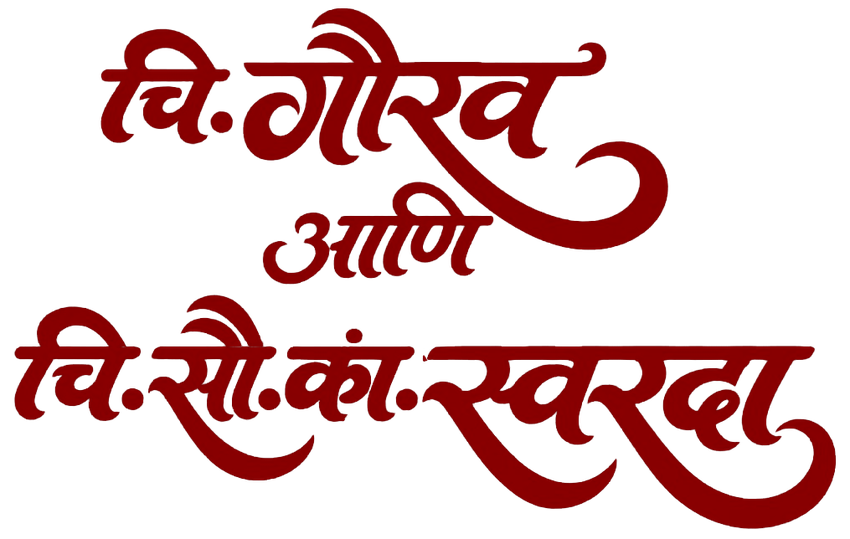
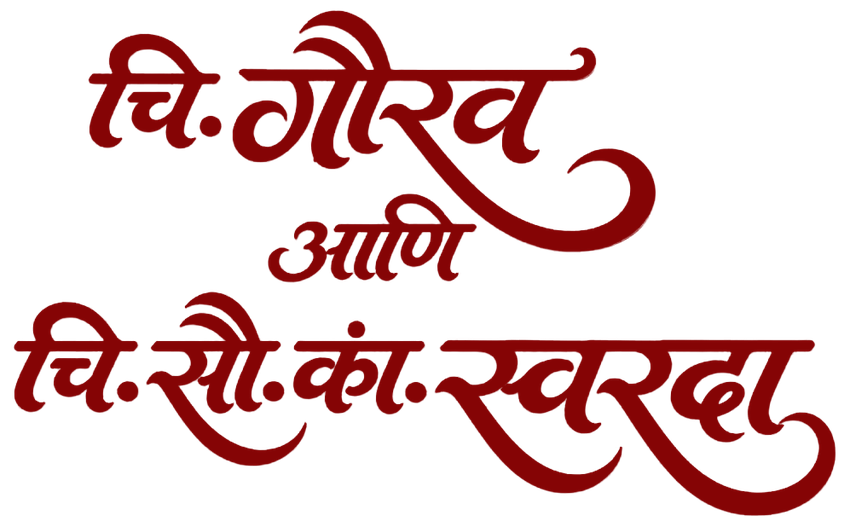
small update

diff --git a/index.html b/index.html
@@ -15,15 +15,15 @@
   <link rel="preconnect" href="https://fonts.googleapis.com">
   <link rel="preconnect" href="https://fonts.gstatic.com" crossorigin>
   <link rel="preconnect" href="https://ik.imagekit.io">
-  <link rel="preload" as="image" href="assets/couple-calligraphy.webp?v=12" type="image/webp" fetchpriority="high">
-  <link rel="preload" as="image" href="assets/couple-calligraphy-sec3.webp?v=12" type="image/webp">
+  <link rel="preload" as="image" href="assets/couple-calligraphy.webp?v=16" type="image/webp" fetchpriority="high">
+  <link rel="preload" as="image" href="assets/couple-calligraphy-sec3.webp?v=16" type="image/webp">
   <link rel="preload" as="image" href="https://ik.imagekit.io/greenspire/invitation/main-bg.avif" fetchpriority="high">
   <link rel="preload" as="image" href="https://ik.imagekit.io/greenspire/invitation/ganpati-logo.avif">
   <link rel="preload" as="image" href="assets/couple.webp?v=3" type="image/webp">
   <link
     href="https://fonts.googleapis.com/css2?family=Cinzel:wght@400;600;700;800&family=Cormorant+Garamond:ital,wght@0,400;0,600;0,700;1,400&family=Great+Vibes&family=Italianno&family=Noto+Serif+Devanagari:wght@400;600;700;800;900&family=Tiro+Devanagari+Marathi:ital,wght@0,400;0,700;1,400&family=Yatra+One&display=block"
     rel="stylesheet">
-  <link rel="stylesheet" href="css/style.css?v=177">
+  <link rel="stylesheet" href="css/style.css?v=182">
 
   <style>
     .stage-cover:not(.is-revealed) .cover-content,
@@ -52,9 +52,8 @@
 
             <div class="cover-names-wrap" role="heading" aria-level="1">
               <picture class="cover-calligraphy-picture">
-                <source srcset="assets/couple-calligraphy.webp?v=12" type="image/webp">
-                <img src="assets/couple-calligraphy.png?v=12" alt="चि. गौरव आणि चि. सौ. कां. स्वरदा"
-                  class="cover-calligraphy-img" width="850" height="506" fetchpriority="high" decoding="async">
+                <source srcset="assets/couple-calligraphy.webp?v=16" type="image/webp">
+                <img src="assets/couple-calligraphy.png?v=16" alt="चि. गौरव आणि चि. सौ. कां. स्वरदा" class="cover-calligraphy-img" width="850" height="535" fetchpriority="high" decoding="async">
               </picture>
               <span class="sr-only">चि. गौरव आणि चि. सौ. कां. स्वरदा</span>
             </div>
@@ -156,9 +155,8 @@
               </p>
               <div class="hero-names hero-calligraphy-wrap" role="heading" aria-level="2">
                 <picture class="hero-calligraphy-picture">
-                  <source srcset="assets/couple-calligraphy-sec3.webp?v=12" type="image/webp">
-                  <img src="assets/couple-calligraphy-sec3.png?v=12" alt="चि. गौरव आणि चि. सौ. कां. स्वरदा"
-                    class="hero-calligraphy-img" width="850" height="539" loading="lazy" decoding="async">
+                  <source srcset="assets/couple-calligraphy-sec3.webp?v=16" type="image/webp">
+                  <img src="assets/couple-calligraphy-sec3.png?v=16" alt="चि. गौरव आणि चि. सौ. कां. स्वरदा" class="hero-calligraphy-img" width="850" height="527" loading="lazy" decoding="async">
                 </picture>
                 <span class="sr-only">चि. गौरव आणि चि. सौ. कां. स्वरदा</span>
               </div>
@@ -316,7 +314,7 @@
   </button>
 
   <script src="js/config.js"></script>
-  <script src="js/app.js?v=137"></script>
+  <script src="js/app.js?v=142"></script>
 </body>
 
 </html>

diff --git a/css/style.css b/css/style.css
@@ -57,7 +57,7 @@ button { cursor: pointer; border: none; background: none; font-family: var(--ser
 
 .cover-names-wrap { display: flex; flex-direction: column; align-items: center; justify-content: center; margin-top: clamp(0.55rem, 1.8vh, 1.2rem); margin-bottom: clamp(0.45rem, 2.0cqw, 1.0rem); padding: 0.2rem 0; position: relative; width: 100%; }
 .cover-calligraphy-picture { display: flex; justify-content: center; align-items: center; width: 100%; }
-.cover-calligraphy-img { width: 100%; max-width: clamp(185px, 58cqw, 255px); max-height: min(21vh, 160px); height: auto; aspect-ratio: 850 / 506; object-fit: contain; display: block; margin: 0 auto; transform: none; filter: drop-shadow(0 2px 5px rgba(99, 22, 34, 0.16)); user-select: none; -webkit-user-select: none; pointer-events: none; }
+.cover-calligraphy-img { width: 100%; max-width: clamp(185px, 58cqw, 255px); max-height: min(21vh, 160px); height: auto; aspect-ratio: 850 / 535; object-fit: contain; display: block; margin: 0 auto; transform: none; filter: drop-shadow(0 2px 5px rgba(99, 22, 34, 0.16)); user-select: none; -webkit-user-select: none; pointer-events: none; }
 .sr-only { position: absolute; width: 1px; height: 1px; padding: 0; margin: -1px; overflow: hidden; clip: rect(0, 0, 0, 0); white-space: nowrap; border: 0; }
 
 .script-title-name { font-family: 'Italianno', cursive; font-size: clamp(3.4rem, 14.5cqw, 5.4rem); color: #16221E; font-weight: 400; line-height: 0.96; letter-spacing: 0.02em; margin: 0; text-align: center; text-shadow: 0 1px 2px rgba(255, 255, 255, 0.95); display: block; }
@@ -152,7 +152,7 @@ button { cursor: pointer; border: none; background: none; font-family: var(--ser
 .hero-names .names-bride { display: block; text-align: center; }
 .hero-calligraphy-wrap { width: 100%; display: flex; flex-direction: column; align-items: center; justify-content: center; margin: 0.35rem 0 0.55rem; position: relative; }
 .hero-calligraphy-picture { display: flex; justify-content: center; align-items: center; width: 100%; }
-.hero-calligraphy-img { width: 100%; max-width: clamp(190px, 60cqw, 255px); height: auto; aspect-ratio: 850 / 539; display: block; margin: 0 auto; filter: drop-shadow(0 2px 5px rgba(99, 22, 34, 0.16)); user-select: none; -webkit-user-select: none; pointer-events: none; }
+.hero-calligraphy-img { width: 100%; max-width: clamp(190px, 60cqw, 255px); height: auto; aspect-ratio: 850 / 527; display: block; margin: 0 auto; filter: drop-shadow(0 2px 5px rgba(99, 22, 34, 0.16)); user-select: none; -webkit-user-select: none; pointer-events: none; }
 
 .hero-line { max-width: 32ch; text-wrap: balance; font-style: italic; font-size: clamp(1.02rem, 4.0cqw, 1.28rem); color: #2F1E16; font-weight: 500; line-height: 1.45; margin: 0.35rem 0; text-shadow: 0 1px 1px rgba(255, 255, 255, 0.85); }
 .hero-line.devanagari { font-family: 'Noto Serif Devanagari', var(--deva); font-style: normal; font-size: clamp(1.20rem, 4.6cqw, 1.45rem); color: #381A1E; font-weight: 600; line-height: 1.7; max-width: 36ch; margin: 1rem 0; }
